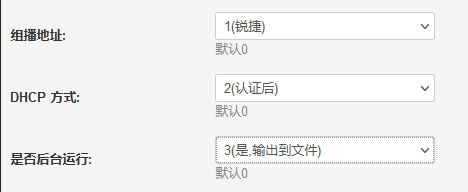
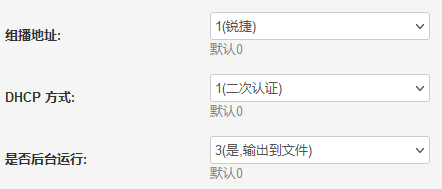
验证规则更新，需要修改设置

diff --git a/README.md b/README.md
@@ -43,14 +43,14 @@
    - 此处可以将路由器重启一次，如果`/etc/storage/bin/mentohust`没有消失，证明写入成功
 3. 配置
    - 进入扩展环境->锐捷认证，将MentoHUST 程序路径修改为`/etc/storage/bin/mentohust`<br>![示例](pic/5.png)
-   - 启用MentoHUST，填写校园网的`用户名`和`密码`，将组播地址修改为`锐捷`，DHCP方式修改为`认证后`，是否后台运行修改为`是，输出到文件`<br>![示例](pic/6.png)
+   - 启用MentoHUST，填写校园网的`用户名`和`密码`，将组播地址修改为`锐捷`，DHCP方式修改为`二次认证`，是否后台运行修改为`是，输出到文件`<br>![示例](pic/6.png)
 4. 记得应用本页设置，此时应该可以正常使用了；
 
 ## 解决IPv6
 
 1. 好处
    - 绝大部分区域已经支持IPv6，如果没有，请与网络中心联系；
-   - ~~大部分移动端应用已支持IPv6，比如微信和B站，不会断网~~（目前网络已24h开放）；
+   - 大部分移动端应用已支持IPv6，比如微信和B站，不会断网；
    - 获得更多的BT连接，并且比IPv4更快；
    - GZHU的IPv6流量上下对等100Mbps，比纯IPv4好得多；
 2. 方法
